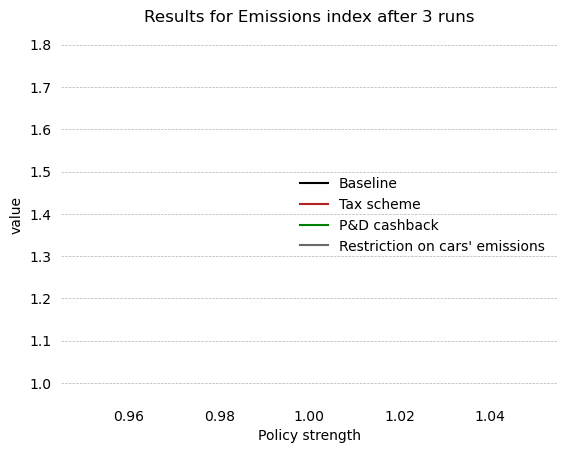
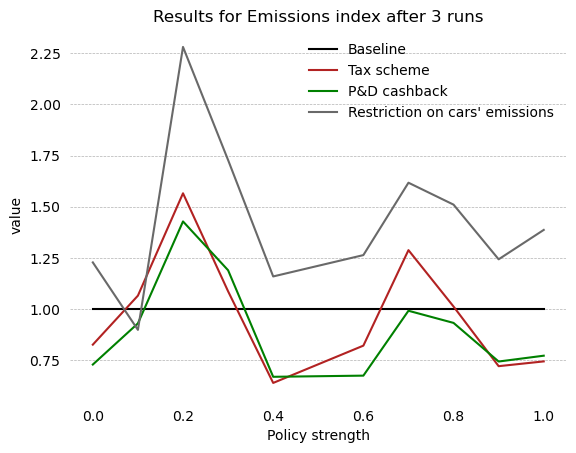
running results

diff --git a/main.py b/main.py
@@ -103,8 +103,7 @@ def plot_policies(results, levels, n):
 
 
 def policies(n=10, n_jobs=1):
-    # levels = [round(lev, 1) for lev in linspace(.1, .9, 18)]
-    levels = [1]
+    levels = [round(lev, 1) for lev in linspace(0, 1, 10)]
     pols = [None, 'tax', 'p_d', 'e_max']
     results = dict()
     for pol in pols:
